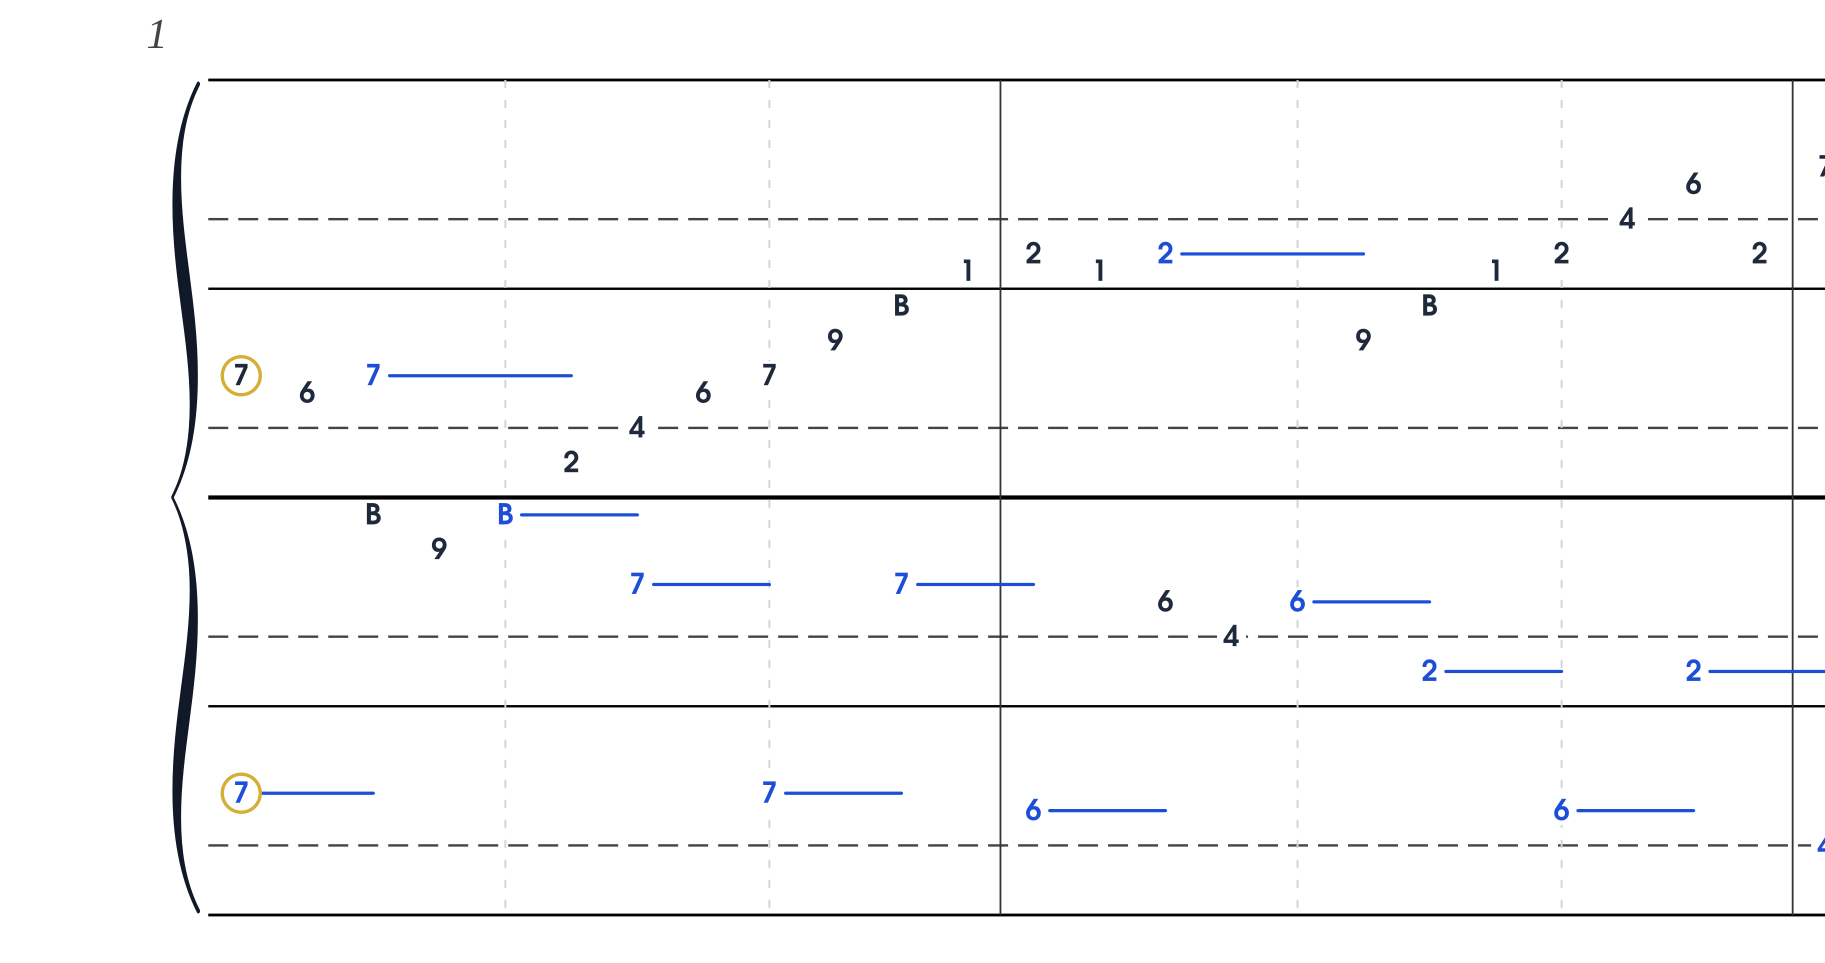
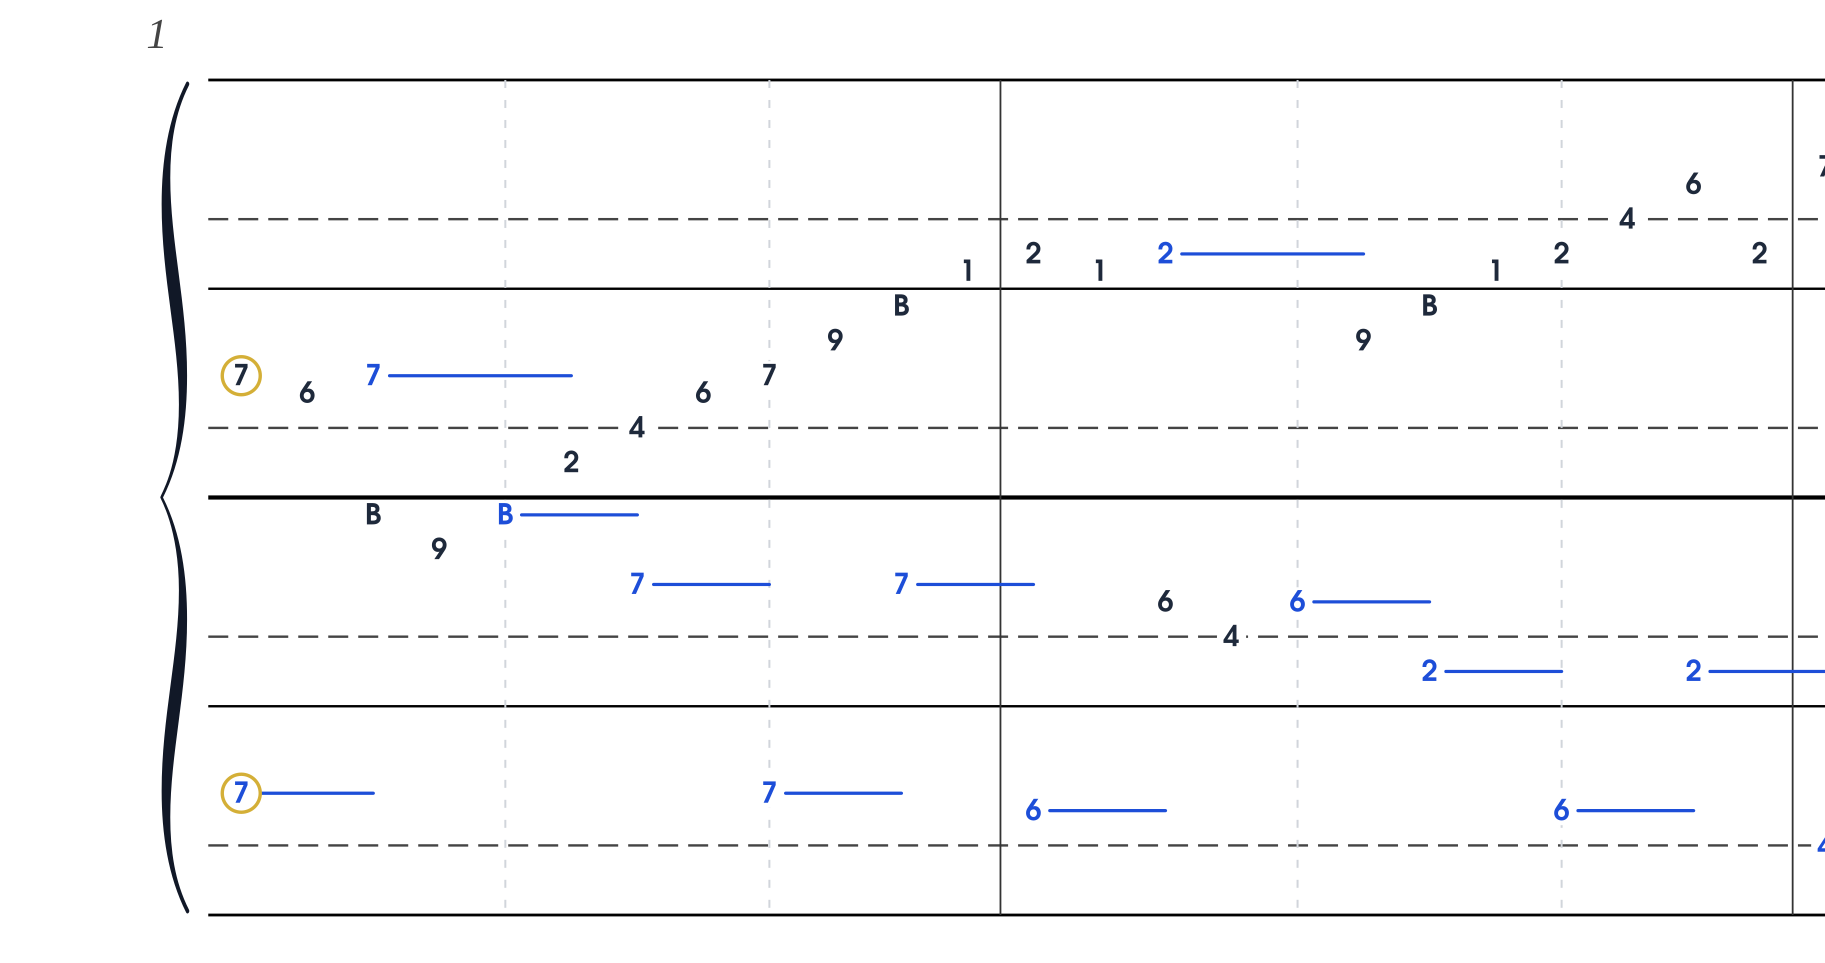
refactor(engraving): increase accolade left margin breathing offset to 4.5pt

Changed region(s): [[0.0625, 0.5296, 0.1249, 0.9346], [0.0625, 0.0935, 0.1249, 0.4984]]

diff --git a/public/gallery.html b/public/gallery.html
@@ -21,17 +21,17 @@
   <div class="grid">
     <div class="card">
       <h3>Measures 1–2 (Slender Offset Accolade, Redistributed Octave Hierarchy &amp; Gold Incipit)</h3>
-      <img src="/img/definitive_m1_m2.png?v=copperplate-offset" alt="Measures 1-2 Definitive Start">
-      <p>System 1 classical LilyPond/Emmentaler curly brace shifted slightly into the margin (1.8pt breathing gap) with slender bellies (1.91pt, 7.5pt reach); zero starting vertical line; strict conservation of octave ink weight with outer bounds (o1/o5) at 0.70pt and inner lines (o2/o4) at 0.60pt around the authoritative 1.05pt Middle C spine; 0.45pt barlines; opening '7' digits framed by a noble gold halo ring (#D4AF37) with balanced optical centering; measure number 1 isolated in left margin; mathematically symmetric note spacing across the m. 1–2 barline.</p>
+      <img src="/img/definitive_m1_m2.png?v=copperplate-offset-4.5" alt="Measures 1-2 Definitive Start">
+      <p>System 1 classical LilyPond/Emmentaler curly brace set in the left margin with a spacious 4.5pt breathing gap from the open staff head, featuring slender copperplate bellies (1.91pt, 7.5pt reach); zero starting vertical line; strict conservation of octave ink weight with outer bounds (o1/o5) at 0.70pt and inner lines (o2/o4) at 0.60pt around the authoritative 1.05pt Middle C spine; 0.45pt barlines; opening '7' digits framed by a noble gold halo ring (#D4AF37) with balanced optical centering; measure number 1 isolated in left margin; mathematically symmetric note spacing across the m. 1–2 barline.</p>
     </div>
     <div class="card">
       <h3>Page 1 (Measures 1–8 Spread)</h3>
-      <img src="/img/page1_4.25.png?v=copperplate-offset" alt="Page 1">
+      <img src="/img/page1_4.25.png?v=copperplate-offset-4.5" alt="Page 1">
       <p>Majestic centered Urtext title heading (Variatio 1 · a 1 Clav. centered, Goldberg Variations on left, J. S. Bach on right), two spacious horizontal systems (System 1 with slender offset accolade, System 2 with open start, zero starting vertical lines, zero closing system end lines), vast vertical whitespace gutter, measure numerals 1 and 5 cleanly isolated in left margin.</p>
     </div>
     <div class="card">
       <h3>Page 4 (Measures 25–32 &amp; Final Double Barline)</h3>
-      <img src="/img/page4_4.25.png?v=copperplate-offset" alt="Page 4">
+      <img src="/img/page4_4.25.png?v=copperplate-offset-4.5" alt="Page 4">
       <p>System 7 with open right end (no closing barline); System 8 concluding with the authoritative classical final double barline on measure 32; Measures 29–30 feature local dashed outlier line (pitch 76) with ample vertical breathing room.</p>
     </div>
   </div>

diff --git a/test/print-layout.test.ts b/test/print-layout.test.ts
@@ -198,11 +198,11 @@ test('Classical Vertical Accolade Invariant: slender copperplate curly brace cla
   const layout = computeColumnarLayout(score);
   const svgs = renderAllPagesToSvg(layout);
 
-  // Classical curly brace proportions: 7.5pt reach, 1.9pt swell, 8.0pt margin gap, 1.8pt offset
+  // Classical curly brace proportions: 7.5pt reach, 1.9pt swell, 8.0pt margin gap, 4.5pt offset
   assert.equal(ACCOLADE_WIDTH_PT, 7.5, 'Accolade reach must be 7.5pt');
   assert.equal(ACCOLADE_THICKNESS_PT, 1.9, 'Accolade swell must be 1.9pt');
   assert.equal(ACCOLADE_GAP_PT, 8.0, 'Accolade gap must be 8.0pt');
-  assert.equal(ACCOLADE_OFFSET_LEFT_PT, 1.8, 'Accolade offset must be 1.8pt');
+  assert.equal(ACCOLADE_OFFSET_LEFT_PT, 4.5, 'Accolade offset must be 4.5pt');
 
   // The exported path generator is deterministic and spans the requested vertical range
   const direct = getVerticalAccoladePath(65.0, 106.35, 231.15, 11.0, 2.4);

diff --git a/src/render/print-layout.ts b/src/render/print-layout.ts
@@ -40,7 +40,7 @@ export const OPENING_HALO_STROKE = '#D4AF37';
 /** Classical architectural reach of the vertical accolade cusp from the staff edge. */
 export const ACCOLADE_WIDTH_PT = 7.5;
 /** Delicate margin offset giving breathing gap between accolade tips and staff lines. */
-export const ACCOLADE_OFFSET_LEFT_PT = 1.8;
+export const ACCOLADE_OFFSET_LEFT_PT = 4.5;
 /** Margin breathing gap accommodating the classical accolade on System 1. */
 export const ACCOLADE_GAP_PT = 8.0;
 /** Delicate calligraphic swell of the accolade in its lobe bellies. */
